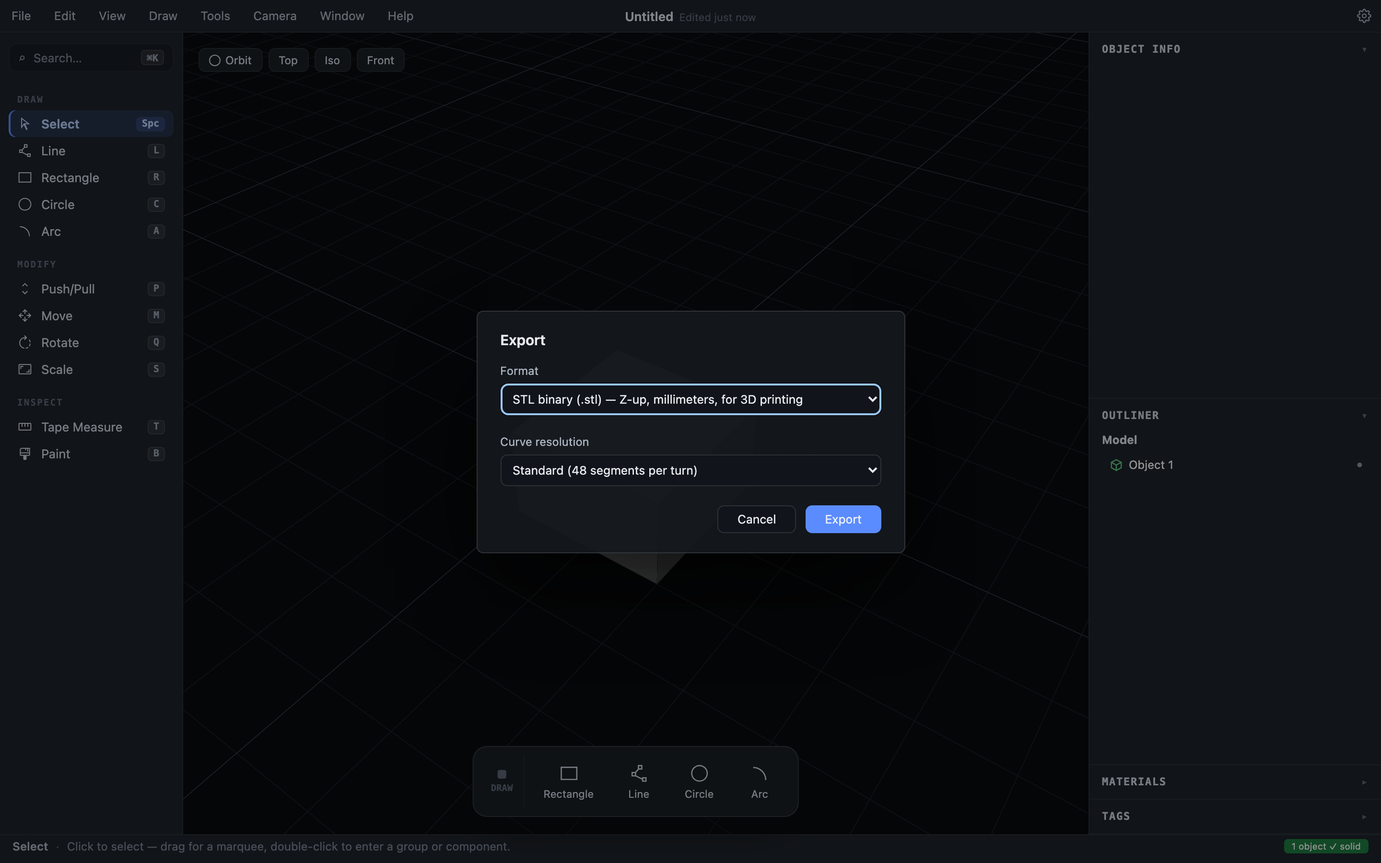
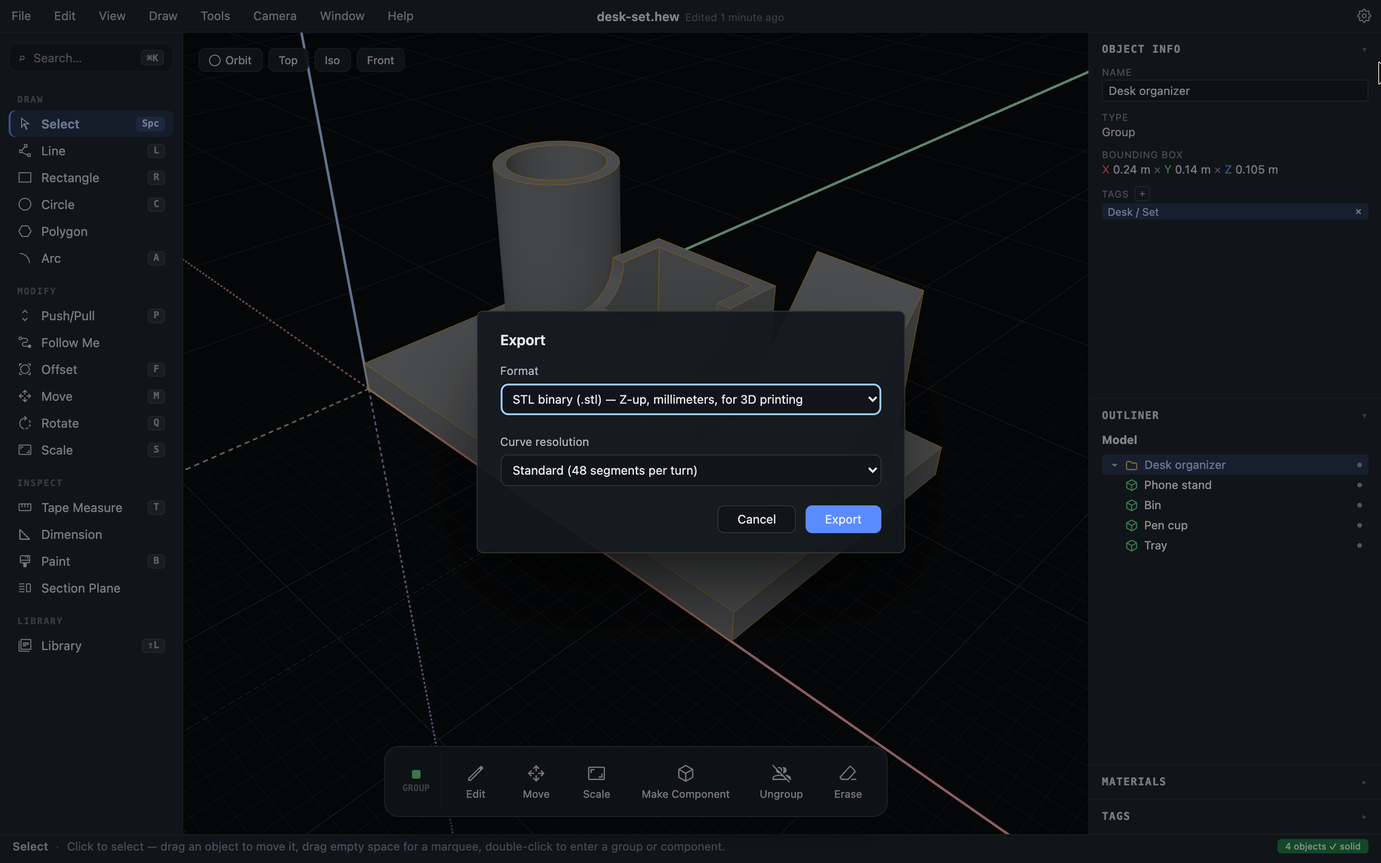
docs: Rewrote the Getting Started tutorial to be more user friendly
Several Hew and SketchUp newbies tried out the previous incarnation of this
tutorial and all failed completely, with the fault being unable to follow
the instructions.

This is a near complete re-write with new screenshots to hopefully make
everything a lot more clear.

diff --git a/site/src/content/learn/getting-started.md b/site/src/content/learn/getting-started.md
@@ -1,122 +1,203 @@
 ---
 title: "Getting started"
-description: "Build a small desk-organizer set — tray, pen cup, scooped bin, and phone stand — in about ten minutes, and meet the tools you'll reach for every session."
+description: "Build a small desk-organizer set — tray, pen cup, scooped bin, and phone stand — in about fifteen minutes, and meet the tools you'll reach for every session."
 order: 1
 ---
 
-Hew runs in two places: as a web app at [app.hew3d.com](https://app.hew3d.com), with nothing to install and no account required, and as a native desktop app for macOS, Windows, and Linux (see [Download](/download/)). Both are the same application; this guide works in either.
+Hew runs on your desktop as a native app (macOS, Windows, and even Linux - see [Download](/download/)) or as a web app at [app.hew3d.com](https://app.hew3d.com) (nothing to install and no account required). Both are the same application and work the same way.
 
-Rather than draw one lonely box, you'll build something you could actually print: a little desk-organizer set — a tray holding a pen cup, a bin with a scooped front, and a phone stand. It touches the tools you'll use in almost every session, and it takes about ten minutes.
-
-## The one idea that matters
-
-Hew feels like SketchUp, but it is built around a single rule: **every closed shape you push/pull becomes a discrete, watertight solid — an Object — and Objects never fuse just because they touch.** The four parts of the organizer will sit on the tray, share edges, even overlap, and stay four separate things. When you *do* want two solids to become one, you say so. Watch for that idea; the whole app follows from it.
+Rather than draw one lonely box, you'll build something you could actually 3D print: a little desk-organizer set — a tray holding a pen cup, a bin with a scooped front, and a phone stand. It should touch all of the tools you'll use in a typical Hew session in about fifteen minutes.
 
 ## 1. Choose centimeters on the welcome screen
 
-On a fresh launch a welcome screen offers the ways in: start modeling in the blank document, open a file, or load a bundled sample. Before moving on, set the **Units** dropdown. This guide works in centimeters, so choose **Centimeters** — the unit you pick becomes the default for every length you type and read, and a small unit (centimeters, millimeters, or inches) also starts the view zoomed in to match, so a palm-sized part doesn't begin as a speck on a meter-scale grid. Every step below types its unit explicitly, so any setting works — but with centimeters the readouts will match what you see here. Click **Start modeling** to head into the blank document.
+On a fresh launch, a welcome screen offers the ability to start modeling in the blank document, open a file, or load a bundled sample.
+
+Before moving on, set the **Units** dropdown. This guide works in centimeters, so choose **Centimeters**.
+
+The unit you pick becomes the default for every length you type and read, and a small unit (centimeters, millimeters, or inches) also starts the view zoomed in to match, so a palm-sized part doesn't begin as a speck on a meter-scale grid.
+
+Every step below types its unit explicitly, so any setting works — but with centimeters as the default, you can type "1" instead of "1cm" and it'll match.
+
+Click **Start modeling** to head into the blank document.
 
 ![The welcome screen on a fresh launch: sample models, an Open card, and the Units dropdown set to Centimeters](/docs/welcome-screen.png)
 
-(Turned the welcome screen off earlier? The same choice lives in [Settings](/learn/settings/).)
+(Did you turn the welcome screen off earlier? The same choice lives in [Settings](/learn/settings/).)
 
-## 2. Draw the tray
+## 2. Learn the elements of the Hew UI
 
-Pick the **Rectangle** tool — click it in the tool rail on the left, or press `R`. The status bar along the bottom always spells out what the current tool wants next.
+Hew is laid out roughly in three columns.
 
-1. Click once on the ground plane to set the first corner.
+![The default layout of a new Hew instance](/docs/default-hew-layout.png)
+
+On the left is the **tool rail** which shows the primary available tools for quick access, along with their keyboard hot keys. The search field just above the tool rail is the **command palette** - this is a very powerful way of searching for almost anything in Hew (tools, objects, components, materials, help, and more).
+
+In the center is the primary Hew 3D viewport, which is where you interact with the model. It shows a **blue Z axis**, **red X axis**, and **green Y axis** that meet at the **origin**. The cursor will snap to an axis if it gets close. In the upper left are a few convenience buttons that will quick switch the camera. Centered on the bottom is the **contextual dock** - the contents of this dock change depending on Hew's current state to show you the most likely next tools or actions.
+
+On the right are the information panes, mostly empty in a new document. The **Object Info** shows the specific info for the selected object; **Outliner** shows all of the objects in their physical hierarchical relationship; **Materials** shows available textures and paint colors; and **Tags** offers up a way to logically organize the objects.
+
+On the very bottom of everything is the status bar. This shows the current tool in play as well as the first/next action you should be taking with that tool. If you're ever wondering what a tool can do, then the status bar is a good place to look first.
+
+## 3. Sketch the 2D shape of a tray
+
+Pick the **Rectangle** tool — click it in the tool rail on the left, press `R`, or search for it in the command palette. The status bar along the bottom always spells out what the current tool wants next.
+
+1. **Click once** on the ground plane to set the first corner. The **origin** (where the three axes all meet) is a good starting point, but not at all necessary
 2. Move the cursor. A live preview follows, and once the first corner is down, a measurement box appears in the top-right of the viewport tracking the width × depth.
-3. Click again to set the opposite corner.
+3. Click again to set the opposite corner at roughly **24cm x 14cm**.
 
-![The tray's rectangle drawn on the ground plane as a filled sketch region, listed as "Sketch 1" in the Outliner](/docs/organizer-sketch.png)
+![A rectangle mid-draw with blue preview outline; VCB reading 24cm,14cm; status bar "Click the opposite corner"](/docs/tray-sketch.png)
 
-The closed rectangle fills in as a **sketch region** — you'll see it as a Sketch in the Outliner on the right. As you draw, notice the colored dot and label at the cursor: Hew's inference engine is calling out endpoints, midpoints, and axis alignments, the way SketchUp does.
+As you draw, notice the colored dot and label at the cursor - that's Hew calling out endpoints, midpoints, and axis alignments. That's essential for many Hew actions.
 
-**Type the size instead of eyeballing it.** You don't click into that measurement box — Hew is listening whenever a tool is active. After the first corner, just type `24cm,14cm` (or `9.5",5.5"`, or `0.24m,0.14m`) and press `Enter`; your keystrokes land in the box and set the exact size. [Precision, measurement, and guides](/learn/measurement-and-guides/) lists every accepted format.
+The closed rectangle fills in as a **sketch region** — you'll see it as a Sketch in the Outliner on the right. Sketches are not full Hew objects but rather the form of a solid to come later.
 
-## 3. Push/pull it into a solid
+**Advanced: type the size directly instead of eyeballing it.** After the first corner, just type `24cm,14cm` (or `24,14` or `9.5",5.5"` or `0.24m,0.14m`) and press `Enter`. Hew is listening for input whenever a tool is active and so it will update the measurements directly and set the Sketch to that exact size. Most of the following steps will request a specific size - just type it in and it'll be recognized.
+
+[Precision, measurement, and guides](/learn/measurement-and-guides/) lists every accepted format.
+
+## 4. Push/pull it into a solid
+
+In this step, we create our first Hew Object (our first solid).
 
 Switch to **Push/Pull** (`P`):
 
-1. Click the rectangle.
+1. Click the rectangle Sketch.
 2. Move the cursor up and away; a live preview of the extrusion follows.
 3. Click to set the height, or type `1.5cm` and press `Enter`.
 
-![The tray board selected, with Object Info reporting its geometry as Solid and the object dock showing Push/Pull, Move, Paint, Make Component, Erase](/docs/organizer-tray.png)
+![Creating the tray Object by Push/Pull on the Sketch](/docs/tray-pushpull.png)
 
-That's your tray. The moment you commit, Hew turns the sketch into a real Object — a watertight solid. There's no separate "make it a group" or "make it solid" step; push/pulling a closed profile *is* that step. Press `Space` for the **Select** tool and click the board: Object Info reads **Solid**, and the badge at the bottom-right of the status bar confirms every object in the model is watertight.
+Congratulations - you made your first watertight solid Object in Hew! Press `Space` for the **Select** tool and click the tray. The **Object Info** pane now fills in the info about it and confirms that it's **Solid**.
 
-### Look around while you work
+## 5. Look around while you work
 
-Navigation is always available, whatever tool is active. Drag the **middle mouse button** to orbit, drag the **right mouse button** to pan, and scroll to zoom toward the cursor. No mouse wheel? Press `O`, `H`, or `Z` for Orbit, Pan, and Zoom and drag with the left button. The **Top / Iso / Front** buttons above the viewport jump to standard views, and **Camera ▸ Zoom Extents** frames everything visible. There's more in [Viewing your model](/learn/viewing/).
+Navigation is always available, whatever tool is active. Drag the **middle mouse button** to orbit, drag the **right mouse button** to pan, and scroll to zoom toward the cursor.
 
-## 4. The pen cup
+No mouse wheel? Press `O`, `H`, or `Z` for Orbit, Pan, and Zoom and drag with the left button.
 
-Two new moves here: drawing a circle, and hollowing a solid by pushing a face *inward*.
+The **Top / Iso / Front** buttons above the viewport jump to standard views, and **Camera ▸ Zoom Extents** frames everything visible.
 
-1. Pick the **Circle** tool (`C`), click a center point on the ground beside the tray, type `3cm`, and press `Enter`. What you type is the **radius**, so this makes a 6 cm-wide disk.
+Try it out! **Orbit** and **Pan** around the model to get a feel for how the camera changes when you move around. To "reset" your view, just click the **Iso** button and it'll reset the camera to a "standard" view. The **Top** and **Front** buttons are similar - they show standardized views of the model that will be extremely handy at certain times.
+
+But yeah, just get used to clicking the **Iso** button since that does a camera reset plus "Zoom Extents" in one fell swoop.
+
+There's more in [Viewing your model](/learn/viewing/).
+
+## 6. Build a hollowed-out pen cup
+
+We'll learn two new moves here: drawing a circle and hollowing a solid by pushing a face *inward*.
+
+1. Pick the **Circle** tool (`C`), click a center point on the ground beside the tray, type `3cm`, and press `Enter`. What you type is the **radius**, so this makes a 6 cm-wide Sketch of a disk.
 2. With **Push/Pull** (`P`), click the disk and pull it up to `9cm`. You now have a solid cylinder.
-3. Hollow it. Drawing works directly on a solid's face: with the **Circle** tool (`C`), click the center of the cylinder's top face and type `2.4cm`; then take **Push/Pull** (`P`) and push that inner disk *down* `7.5cm`. Pushing a face inward carves a recess, leaving a 1.5 cm floor — the cup is now a cup. Typing works here too, and the sign picks the direction: a leading minus (`-7.5cm`) carves inward no matter which way you nudged the cursor.
-4. Switch to **Select** (`Space`) and simply **drag** the cup onto the tray — dragging an object moves it, snapping all the way. (Pressing `M` for **Move** and clicking two points works too.) Because it's its own Object, it rests on the tray without merging into it.
+3. Hollow it. Drawing works directly on a solid's face: with the **Circle** tool (`C`), click the center of the cylinder's top face (the cursor will snap to the center if you get close) and type `2.4cm`; then take **Push/Pull** (`P`) and push that inner disk *down* `7.5cm` (eyeballing it or type it in).
+4. Switch to **Select** (`Space`) and simply **drag** the cup onto the tray. Or, for more precision, pressing `M` changes to the **Move** tool with the ability to click to a specific location (and to copy, but not now).
 
-![The tray with the hollowed pen cup resting on it; the Outliner lists two objects, both solid](/docs/organizer-cup.png)
+![The tray with the hollowed pen cup being moved into place](/docs/tray-with-cup.png)
 
-## 5. The bin with a scooped front
+Drawing a shape on a solid and then pushing into the solid is a very common way of hollowing a part out. If you go all the way through, then you have a hole (or a pipe, if a cylinder) but if you stop before the end, you have a cup.
 
-The bin starts as a hollow box, then gets its front scooped. The scoop is the one place in this build where you *explicitly* combine two solids.
+## 7. Work on a different plane
+
+So far, all of our work has happened on parts on the "ground". This is the "blue" plane (or *Z-plane*) that crosses the origin. Blue planes can be anywhere up and down the Z-axis, though. There are two other planes - the "red" plane ("X-plane") and "green" plane ("Y-plane"). Likewise, they can move anywhere on the X-axis or Y-axis, resp.
+
+There are several ways to switch to another plane. The two primary ways are to hover over a face that is already on your intended plane and pressing the **Shift** key to lock the cursor into that plane or to use the arrow keys to **lock** onto a particular axis. This is all pretty abstract, so let's make this concrete.
+
+Start by creating a hollow box for use as our parts bin. We will try one new tool to help hollow out the rectangle.
 
 1. **Rectangle** (`R`) → a `7cm,5cm` footprint on the ground; **Push/Pull** (`P`) up `6cm` into a solid block.
-2. Hollow it, the same way you hollowed the cup: draw a **Rectangle** (`R`) on its top face leaving roughly a `0.7cm` wall all the way around, then **Push/Pull** (`P`) that inner rectangle *down* `5cm` (a `1cm` floor). You now have an open box.
-3. Make the cutter for the scoop: off to the side, with **Circle** (`C`, radius `2cm`) and **Push/Pull** (`P`), stand up a cylinder about `8cm` tall.
-4. Bring them together — and here you rotate the **bin**, not the cylinder. Select the bin, press `Q` for **Rotate**, hover one of its lower edges to set the axis, and tip it `90°` onto its side so the top edge of the front wall stands vertical, right beside the upright cylinder. **Move** (`M`) the bin until the cylinder bites into that edge.
-5. Select the bin, `Shift`-click the cylinder, and choose **Edit ▸ Subtract**. The cylinder carves a smooth curved dip along the rim and vanishes, leaving one watertight bin.
-6. **Rotate** (`Q`) the bin upright again, then **Move** (`M`) it onto the tray.
+2. Hollow it: Choose the **Offset** (`F`) tool and select the top face of the block. Move the mouse around to see it work. Either eyeball a pleasing bin wall width or enter in `0.7cm`
+3. **Push/Pull** (`P`) that inner rectangle *down* `5cm` to create an open box
 
-![The tray with the pen cup and the hollow bin, its front wall dipping in a smooth curved scoop](/docs/organizer-bin.png)
+Let's play with the axes now to get a feel for them. For the following, we'll start a move but never click the second point to commit to a location since we're just seeing what happens. If you do accidentally click a second time and choose a location, just do **Undo** (`Ctrl-Z / Cmd-Z`).
 
-Rotating the *cylinder* onto its side instead — so the bin never has to move — is quicker once you're comfortable, but a cylinder's curved wall gives the Rotate tool no flat face to aim at, so you'd first press an arrow key (`→` / `←` / `↑`) to lock the X / Y / Z axis. Rotating the box is the gentler way in. Subtract is one of three booleans (with Union and Intersect); [Combining and splitting solids](/learn/combining-solids/) covers when to reach for each, and when — as with the hollowing — Push/Pull already does the job.
+1. Choose the **Move** (`M`) tool and select the bin. Note how if you move the cursor around (but do not click a second time), that it moves freely around but will stick to the "ground" plane unless your cursor goes over an inference point that is higher up the Z-axis. You already did this when you moved the pen cup onto the tray.
+2. Now press the **Up arrow** key to lock movement to the **blue / Z-axis**. Note how now the bin can only move straight up or straight down, along the blue axis. You can still move the cursor over other points in the model but those points will just dictate the height of the move, not where the move will terminate
+3. Now press the **Left arrow** key to lock movement to the **green / Y-axis**. See how now the bin can only move along the green axis.
+4. Then, press, the **Right arrow** key to lock movement to the **red / X-axis**. Same as the other two, only now locked to the red axis.
+5. Finally, hit the `Esc` key to exit out of the Move without actually moving
 
-## 6. The phone stand
+It is worth saying that you don't always *have* to use the arrow keys to lock to an axis since the tools will tend to be magnetically attracted to the axes. The arrow keys just make it deterministic.
 
-The stand is a wedge: a tall back, a slope for the phone to lean on, and a `1cm` lip at the front so it can't slide off. Drawing that sloped profile freehand is fiddly — the easy way starts from a plain rectangle, and introduces two tools you'll use constantly: guide lines, and editing a sketch after the fact.
+## 8. Create a "cutter" out of a cylinder
+
+Our goal is to make a "cutter" out of a cylinder that we construct to lie *across* the bin. It'll be easier to do this if you **Orbit** the model to show the right face of the bin more clearly. Alternatively, you can choose **Camera ▸ Standard Views ▸ Right**. Play around with this - being able to master the camera is a critical skill working in 3D.
+
+Drawing on the "right" face means locking to the **red / X-plane** (which is perpendicular to the X-axis, because that's how that works).
+
+1. Choose the **Circle** (`C`) tool and hover over the bin's right face. Then press the **Right arrow** key. The Status Bar confirms that we're locked to the red plane and there are some visual clues as well.
+2. Click the upper left corner of the right face as the circle center and enter a radius of `2cm`. We now have a disk Sketch on the right face of the bin, rather than on the ground
+3. Choose **Push/Pull** (`P`) to create a cylinder the entire length of the bin (`7cm` or just choose a point on the far edge)
+
+![The bin with a right face disk being extruded into a cylinder](/docs/bin-with-cutter.png)
+
+## 9. Cut a curve out of the bin
+
+Hew's fundamental nature is to work with independent solids. It's why you could just move the pen cup on top of the tray without them combining or messing with each other. But there is one exception to this rule and that's when using the **Boolean** operations like **Union / Subtract / Intersect**. These are the only tools that will force the solids to interfere with each other in very specific ways.
+
+We are starting with our bin that has a cylinder lying across it, from the previous step.
+
+1. Choose the **Select** (`Space`) tool and select the bin. Then press the `Shift` key and select the cylinder. It's critical to do it in this order and to press `Shift` since this selects both and does it in the right order.
+2. Choose the **Subtract** tool either via **Edit ▸ Subtract** or do a search in the command palette (`Cmd-/` or `Ctrl-/`) and type in "sub" to filter it down.
+
+![The command palette filtered down to the Subtract tool](/docs/command-palette-sub.png)
+
+The end result of the **Subtract** is a bin with a cut-out the shape of our cutter (since a **Subtract** removes any part of the initial solid that is shared with the second solid.)
+
+![The bin with a curved cutout from the cutter](/docs/bin-with-cutout.png)
+
+Move the bin to the tray using your favorite method.
+
+## 10. Edit a Sketch with guide lines
+
+The stand is a wedge: a tall back, a slope for the phone to lean on, and a `1cm` lip at the front so it can't slide off. Drawing that sloped profile freehand is fiddly — the easy way starts from a plain rectangle, and introduces two tools you'll use constantly: guide lines and editing a sketch after the fact
+
+"Guide lines" (also called "construction lines") are temporary lines created parallel to an edge, typically offset by a very specific amount. They are useful for creating inference points and then are simply deleted when they are no longer needed.
+
+**Note**: The **Tape Measure** tool can be used for dramatically different purposes depending on if you start by clicking an **edge** or by clicking an **endpoint**. In this step, we're selecting an **edge**. If you do accidentally start from an **endpoint** and get a very different result, just **Undo** and try again.
 
 1. **Rectangle** (`R`) → a `6cm,8cm` rectangle on the ground beside the tray. That's the profile's bounding box: 6 deep, 8 tall.
-2. Press `T` for **Tape Measure** and click the rectangle's bottom line, then move upward — a guide line parallel to that edge follows the cursor. Type `1cm` and press `Enter` to pin it exactly 1 cm up. Guides are construction lines: they never become geometry, they just give the next tool something to snap to.
-3. With the **Line** tool (`L`), draw one line from the point where the guide crosses the rectangle's front edge — watch for the amber **Intersection** snap — up to the rectangle's back top corner. The diagonal splits the rectangle into two filled regions.
+2. Press `T` for **Tape Measure** and click the rectangle's bottom line/edge then move upward — a guide line parallel to that edge follows the cursor. Type `1cm` and press `Enter` to pin it exactly 1 cm up.
+3. Still on **Tape Measure**, click the rectangle's right line/edge then move left. Type `1cm` again and press `Enter`. You now have two guide lines perpendicular to each other and each 1cm off of an edge.
+4. With the **Line** tool (`L`), draw one line from the rectangle's back top corner to the point where the two guide lines cross - watch for the amber **Intersection** snap - and then continue it to the right edge. This splits the rectangle into two angled sections.
 
-![The stand profile beside the tray: a 6 by 8 rectangle with a dashed guide line 1 cm above its base and a diagonal drawn from the guide intersection to the opposite top corner, splitting it into two regions](/docs/organizer-stand-profile.png)
+![The stand profile Sketch: a 6 by 8 rectangle with two dashed guide lines 1 cm off the base and right edges and a Line splitting it into two regions](/docs/stand-sketch-with-lines.png)
 
-4. Switch to **Select** (`Space`) and delete the two lines you no longer need: click the rectangle's top edge and press `Delete`, then click the short piece of the front edge above the diagonal and press `Delete`. Each deletion updates the sketch — what's left filled in is the wedge profile. **Edit ▸ Delete Guide Lines** clears the guide, its job done.
-5. **Push/Pull** (`P`) the wedge region `5cm` wide.
-6. Select the wedge, press `Q` for **Rotate**, hover a bottom edge to set the axis, and tip it `90°` so the slope faces up. (It's a box-like shape with flat faces, so Rotate has an easy time.) Then **Move** (`M`) it onto the tray next to the bin.
+5. Switch to **Select** (`Space`) and delete the two lines you no longer need: click the rectangle's top edge and press `Delete`, then click the short piece of the right edge above the diagonal and press `Delete`. Each deletion updates the sketch — what's left filled in is the wedge profile.
 
-![The finished grey set — tray, hollow pen cup, scooped bin, and the wedge phone stand — four solid objects on the tray](/docs/organizer-set.png)
+![The stand profile Sketch with the top line already deleted and the right line selected to be deleted](/docs/stand-sketch-editing.png)
 
-Four parts, four Objects. They touch and overlap on the tray, and the status bar still reads four solids: nothing merged on its own.
+6. **Edit ▸ Delete Guide Lines** clears the guide, its job done.
+7. **Push/Pull** (`P`) the wedge region `5cm` wide.
 
-## 7. Paint the parts
+## 11. Rotate the phone stand upright
 
-Expand **Materials** in the right-hand tray. Click **Add color**, pick a wood tone, and name it *Oak*; add a few more — a teal, a terracotta, a slate.
+The phone stand now looks right, but it's on its side. This step introduces the **Rotate** tool which is another super commonly used tool. Like the name implies, this rotates solids along a pivot point to a specific angle (in degrees).
 
-To paint a whole part, click the swatch you want — that picks up the **Paint** tool — then `⌘`/`Ctrl`-click the part to fill it. Do that for each of the four. (A plain click paints one face at a time.)
+1. **Orbit** the camera to show the left side of the phone stand (or use the **Left** standard view)
+2. Press `Q` for **Rotate** and hover over the left face and press the `Shift` key. The cursor representation turns **red** to show that it's locked to the X-axis.
+3. Select the lower right point on the left face as the pivot point, then select the top right point on the same face as the rotate radius point. Freely move around or type in `-90` to rotate the base down to the ground.
 
-![The set painted — oak tray, teal pen cup, terracotta bin, slate stand — with the Materials palette open](/docs/organizer-materials.png)
+![Rotating the phone stand solid to move off its side onto its base](/docs/stand-solid-rotating.png)
 
-Materials are per-document and they survive modeling: paint follows the geometry through push/pull, slicing, and booleans. See [Materials](/learn/materials/) for textures and opacity.
+4. You can optionally do another rotate along the blue / Z-axis (hint: press `Shift` while the cursor is on the ground to lock to the blue axis) to turn the phone stand to face the same direction as the other parts.
+5. **Move** (`M`) or drag the phone stand onto the tray
 
-## 8. Name it, group it, tag it
+![The finished gray set — tray, hollow pen cup, scooped bin, and the wedge phone stand](/docs/organizer-set.png)
 
-A model with four "Object N" rows is already worth tidying.
+## 12. Name it, group it, tag it
+
+A model with four "Object N" rows is worth tidying.
 
 1. Select each part and, in **Object Info**, type a real **Name** — *Tray*, *Pen cup*, *Bin*, *Phone stand* — pressing `Enter` after each.
-2. Select all four (`⌘A` / `Ctrl+A`) and choose **Edit ▸ Group** (`⌘G` / `Ctrl+G`). Name the group *Desk organizer*. Now the whole set moves, hides, and selects as one, while the parts stay separate inside it.
+2. Select all four (`⌘A` / `Ctrl+A`) and choose **Edit ▸ Group** (`⌘G` / `Ctrl+G`, or `Group` in the contextual dock). Name the group *Desk organizer*. Now the whole set moves, hides, and selects as one, while the parts stay separate inside it.
 3. With the group selected, click **+** next to **Tags** in Object Info and type `Desk/Set`. The **Tags** panel shows the tag tree; tags slice a model into show/hide categories independent of the group structure.
 
 ![The Outliner showing the Desk organizer group expanded into its four named parts, with the Desk / Set tag applied](/docs/organizer-organized.png)
 
 [Organizing your model](/learn/organizing/) goes deeper on the Outliner, tags, and visibility.
 
-## 9. Save, then export to print
+## 13. Save, then export to print
 
 Save the Hew document with `⌘S` / `Ctrl+S` (or **File ▸ Save**). The native format is **`.hew`** — an open container that keeps geometry, names, groups, materials, and tags together, and saves byte-for-byte identically each time. Hew also autosaves a recovery snapshot every 12 seconds, so a crash won't cost you the session ([Files, saving, and recovery](/learn/files-and-saving/)).
 
@@ -128,9 +209,9 @@ Because every Object is watertight by construction, the STL is manifold — no g
 
 ## Where to go next
 
-You've drawn, measured, pushed, hollowed, subtracted, rotated, edited a sketch, painted, organized, and exported — the moves behind most of what you'll model. From here:
+You've drawn, measured, pushed, hollowed, locked to alternate planes, subtracted, rotated, edited a sketch, organized, and exported — the moves behind most of what you'll model. From here:
 
 - [Core concepts](/learn/core-concepts/) explains the ideas that make Hew diverge from SketchUp as models get complicated.
 - [The Hew interface](/learn/interface/) tours every panel and control.
 - [Drawing](/learn/drawing/) and [Push/Pull](/learn/push-pull/) are the full drawing-and-modeling reference.
-- [Follow Me](/learn/follow-me/) sweeps a profile along a path — pipes, moldings, picture frames, even spheres and goblets — and the **Offset** tool ([Drawing](/learn/drawing/#offset-f)) outlines borders and even-thickness walls without measuring.
+- [Follow Me](/learn/follow-me/) sweeps a profile along a path — pipes, moldings, picture frames, even spheres and goblets
